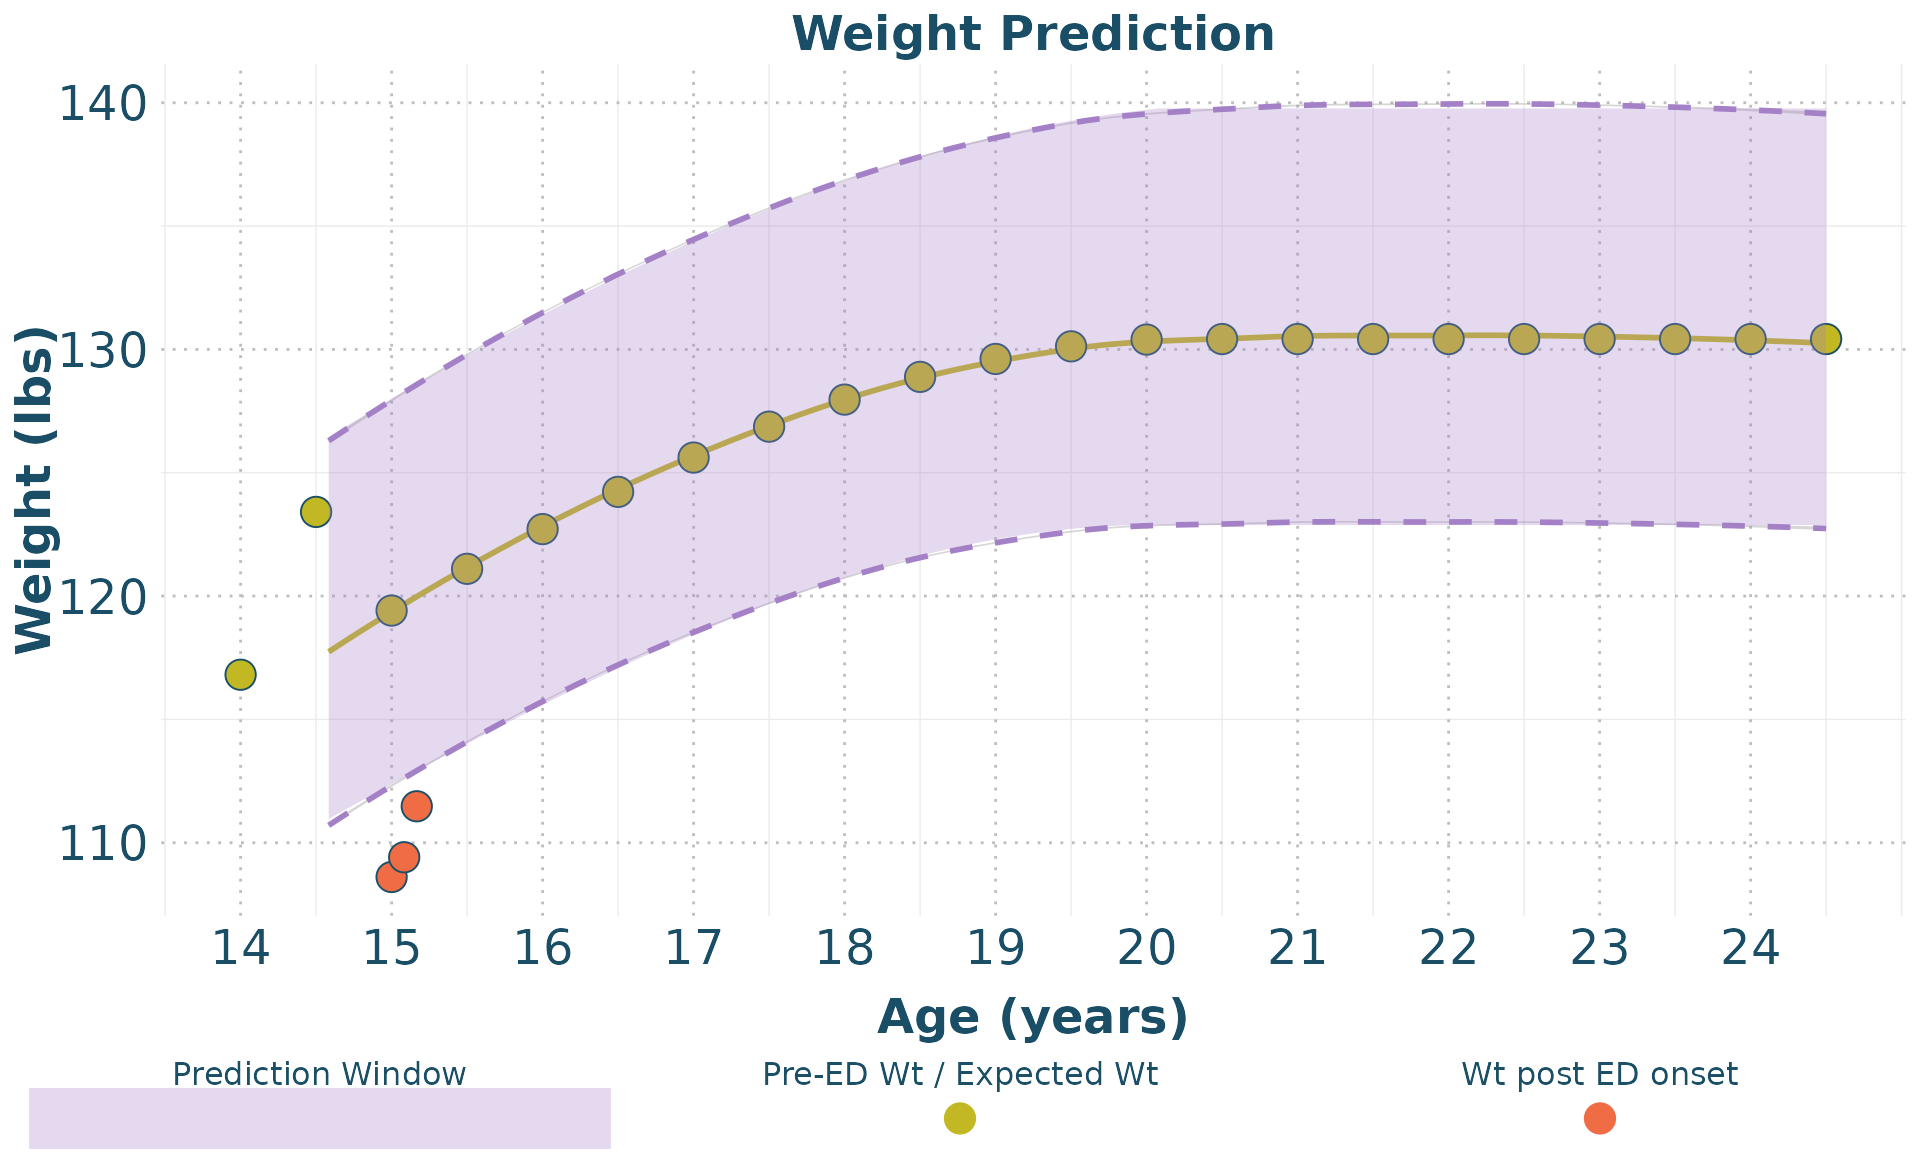
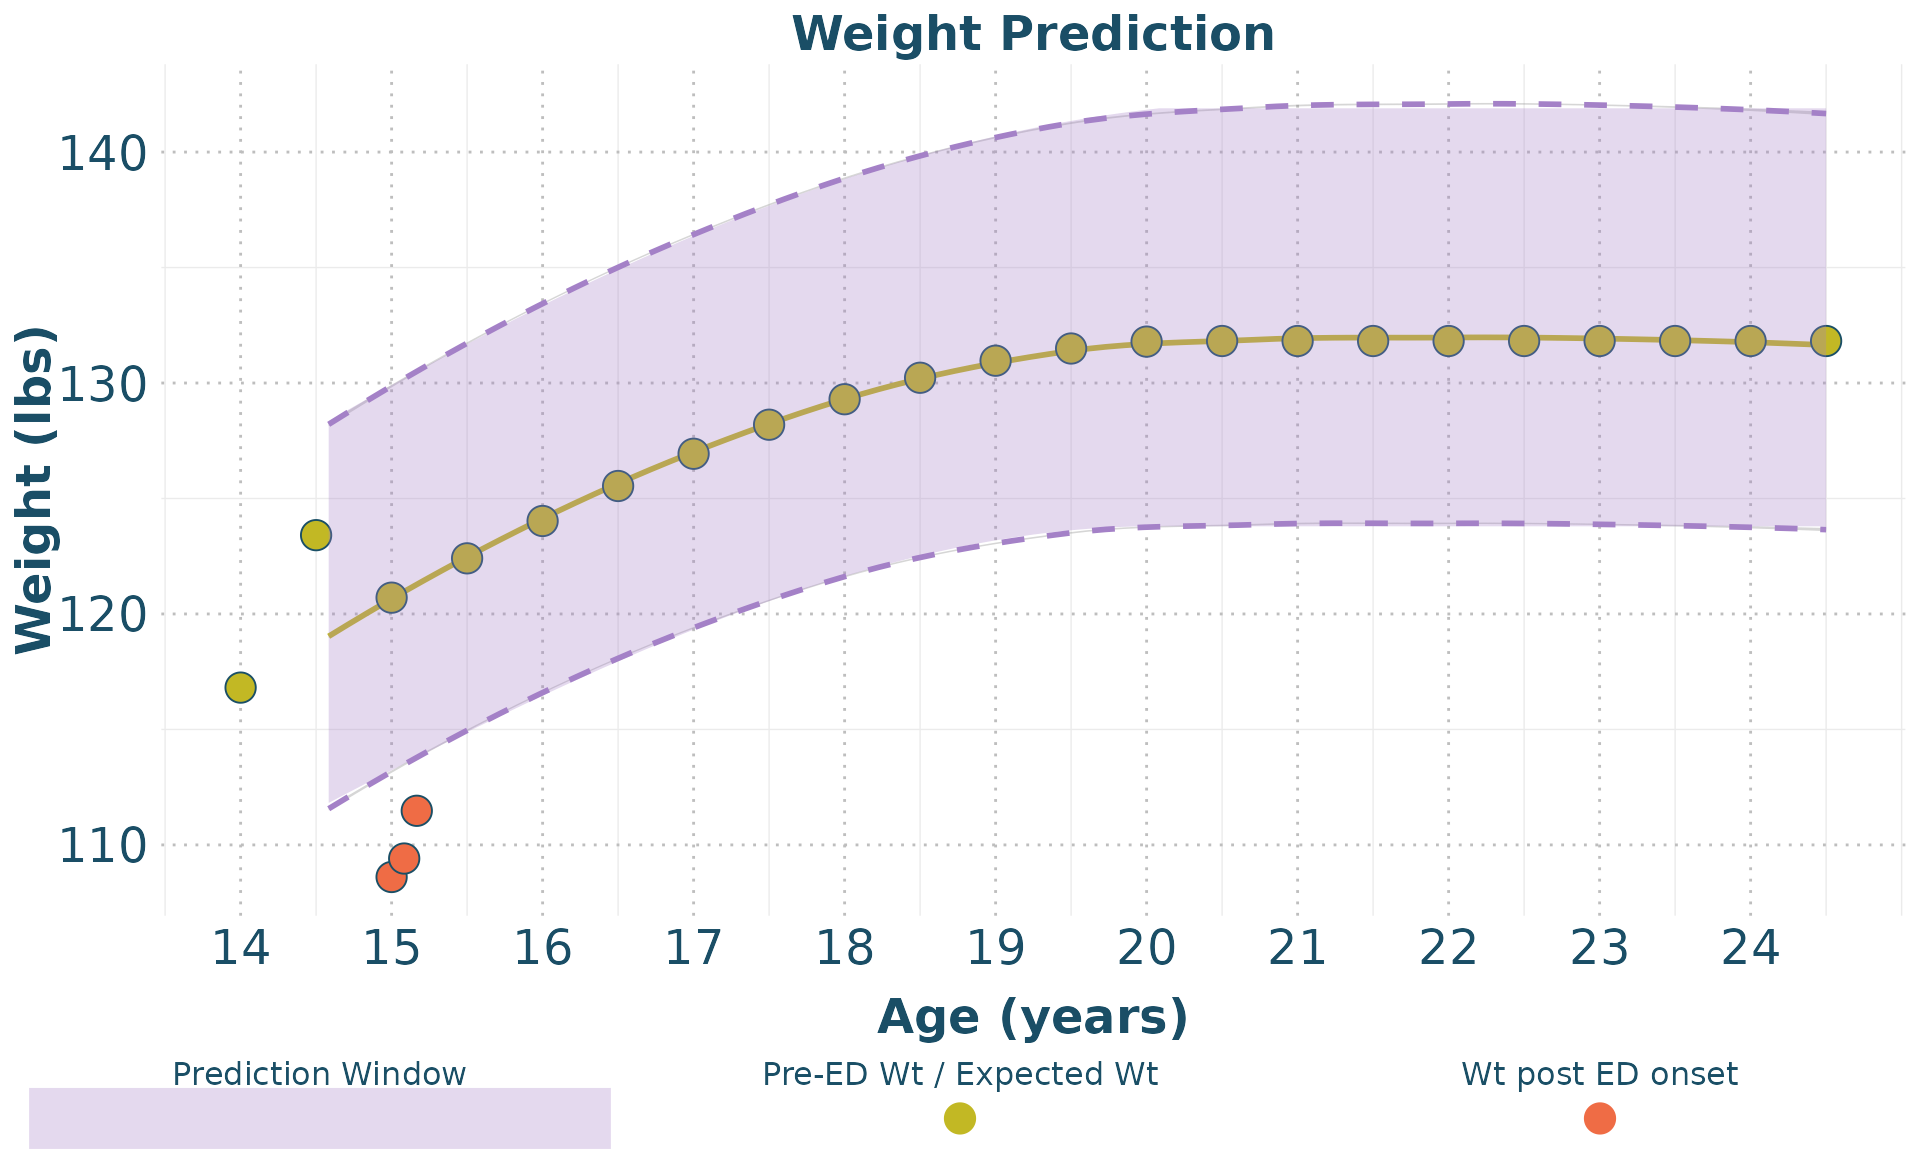
Deploying to gh-pages from @ embark-lab/TeenGrowth@ce2d8bac6f283a9d177db11adf4d03ae1818956c 🚀

diff --git a/articles/Vignette.html b/articles/Vignette.html
@@ -148,123 +148,123 @@ age intervals) for expected BMI and Weight</p>
 <tbody>
 <tr class="odd">
 <td align="right">15.0</td>
-<td align="left">18.2 (17.1, 19.5)</td>
-<td align="left">119.4 (112.4, 128)</td>
-<td align="left">54.2 (51, 58.1)</td>
+<td align="left">18.4 (17.2, 19.7)</td>
+<td align="left">120.7 (113.2, 129.9)</td>
+<td align="left">54.8 (51.4, 58.9)</td>
 </tr>
 <tr class="even">
 <td align="right">15.5</td>
-<td align="left">18.4 (17.3, 19.7)</td>
-<td align="left">121.1 (114, 129.7)</td>
-<td align="left">54.9 (51.7, 58.9)</td>
+<td align="left">18.6 (17.5, 20)</td>
+<td align="left">122.4 (114.9, 131.7)</td>
+<td align="left">55.5 (52.1, 59.7)</td>
 </tr>
 <tr class="odd">
 <td align="right">16.0</td>
-<td align="left">18.7 (17.6, 20)</td>
-<td align="left">122.7 (115.6, 131.4)</td>
-<td align="left">55.7 (52.4, 59.6)</td>
+<td align="left">18.9 (17.7, 20.3)</td>
+<td align="left">124 (116.5, 133.4)</td>
+<td align="left">56.3 (52.8, 60.5)</td>
 </tr>
 <tr class="even">
 <td align="right">16.5</td>
-<td align="left">18.9 (17.8, 20.2)</td>
-<td align="left">124.2 (117.1, 133)</td>
-<td align="left">56.3 (53.1, 60.3)</td>
+<td align="left">19.1 (17.9, 20.5)</td>
+<td align="left">125.5 (117.9, 134.9)</td>
+<td align="left">56.9 (53.5, 61.2)</td>
 </tr>
 <tr class="odd">
 <td align="right">17.0</td>
-<td align="left">19.1 (18, 20.4)</td>
-<td align="left">125.6 (118.4, 134.4)</td>
-<td align="left">57 (53.7, 61)</td>
+<td align="left">19.3 (18.1, 20.7)</td>
+<td align="left">126.9 (119.3, 136.4)</td>
+<td align="left">57.6 (54.1, 61.9)</td>
 </tr>
 <tr class="even">
 <td align="right">17.5</td>
-<td align="left">19.3 (18.2, 20.6)</td>
-<td align="left">126.9 (119.7, 135.7)</td>
-<td align="left">57.5 (54.3, 61.5)</td>
+<td align="left">19.5 (18.3, 20.9)</td>
+<td align="left">128.2 (120.6, 137.7)</td>
+<td align="left">58.1 (54.7, 62.4)</td>
 </tr>
 <tr class="odd">
 <td align="right">18.0</td>
-<td align="left">19.5 (18.4, 20.8)</td>
-<td align="left">128 (120.7, 136.8)</td>
-<td align="left">58 (54.8, 62.1)</td>
+<td align="left">19.7 (18.5, 21.1)</td>
+<td align="left">129.3 (121.6, 138.8)</td>
+<td align="left">58.6 (55.2, 63)</td>
 </tr>
 <tr class="even">
 <td align="right">18.5</td>
-<td align="left">19.6 (18.5, 21)</td>
-<td align="left">128.9 (121.6, 137.8)</td>
-<td align="left">58.5 (55.2, 62.5)</td>
+<td align="left">19.8 (18.6, 21.3)</td>
+<td align="left">130.2 (122.5, 139.8)</td>
+<td align="left">59.1 (55.6, 63.4)</td>
 </tr>
 <tr class="odd">
 <td align="right">19.0</td>
-<td align="left">19.7 (18.6, 21.1)</td>
-<td align="left">129.6 (122.3, 138.6)</td>
-<td align="left">58.8 (55.5, 62.9)</td>
+<td align="left">19.9 (18.7, 21.4)</td>
+<td align="left">131 (123.2, 140.7)</td>
+<td align="left">59.4 (55.9, 63.8)</td>
 </tr>
 <tr class="even">
 <td align="right">19.5</td>
-<td align="left">19.8 (18.7, 21.2)</td>
-<td align="left">130.1 (122.7, 139.3)</td>
-<td align="left">59 (55.7, 63.2)</td>
+<td align="left">20 (18.8, 21.5)</td>
+<td align="left">131.5 (123.6, 141.3)</td>
+<td align="left">59.6 (56.1, 64.1)</td>
 </tr>
 <tr class="odd">
 <td align="right">20.0</td>
-<td align="left">19.8 (18.7, 21.2)</td>
-<td align="left">130.4 (122.9, 139.7)</td>
-<td align="left">59.1 (55.7, 63.4)</td>
+<td align="left">20 (18.8, 21.6)</td>
+<td align="left">131.8 (123.8, 141.8)</td>
+<td align="left">59.8 (56.2, 64.3)</td>
 </tr>
 <tr class="even">
 <td align="right">20.5</td>
-<td align="left">19.8 (18.7, 21.2)</td>
-<td align="left">130.4 (122.9, 139.8)</td>
-<td align="left">59.2 (55.7, 63.4)</td>
+<td align="left">20 (18.8, 21.6)</td>
+<td align="left">131.8 (123.8, 141.9)</td>
+<td align="left">59.8 (56.2, 64.4)</td>
 </tr>
 <tr class="odd">
 <td align="right">21.0</td>
-<td align="left">19.8 (18.7, 21.2)</td>
-<td align="left">130.4 (122.9, 139.8)</td>
-<td align="left">59.2 (55.7, 63.4)</td>
+<td align="left">20 (18.8, 21.6)</td>
+<td align="left">131.8 (123.8, 141.9)</td>
+<td align="left">59.8 (56.2, 64.4)</td>
 </tr>
 <tr class="even">
 <td align="right">21.5</td>
-<td align="left">19.8 (18.7, 21.2)</td>
-<td align="left">130.4 (122.9, 139.8)</td>
-<td align="left">59.2 (55.7, 63.4)</td>
+<td align="left">20 (18.8, 21.6)</td>
+<td align="left">131.8 (123.8, 141.9)</td>
+<td align="left">59.8 (56.2, 64.4)</td>
 </tr>
 <tr class="odd">
 <td align="right">22.0</td>
-<td align="left">19.8 (18.7, 21.2)</td>
-<td align="left">130.4 (122.9, 139.8)</td>
-<td align="left">59.2 (55.7, 63.4)</td>
+<td align="left">20 (18.8, 21.6)</td>
+<td align="left">131.8 (123.8, 141.9)</td>
+<td align="left">59.8 (56.2, 64.4)</td>
 </tr>
 <tr class="even">
 <td align="right">22.5</td>
-<td align="left">19.8 (18.7, 21.2)</td>
-<td align="left">130.4 (122.9, 139.8)</td>
-<td align="left">59.2 (55.7, 63.4)</td>
+<td align="left">20 (18.8, 21.6)</td>
+<td align="left">131.8 (123.8, 141.9)</td>
+<td align="left">59.8 (56.2, 64.4)</td>
 </tr>
 <tr class="odd">
 <td align="right">23.0</td>
-<td align="left">19.8 (18.7, 21.2)</td>
-<td align="left">130.4 (122.9, 139.8)</td>
-<td align="left">59.2 (55.7, 63.4)</td>
+<td align="left">20 (18.8, 21.6)</td>
+<td align="left">131.8 (123.8, 141.9)</td>
+<td align="left">59.8 (56.2, 64.4)</td>
 </tr>
 <tr class="even">
 <td align="right">23.5</td>
-<td align="left">19.8 (18.7, 21.2)</td>
-<td align="left">130.4 (122.9, 139.8)</td>
-<td align="left">59.2 (55.7, 63.4)</td>
+<td align="left">20 (18.8, 21.6)</td>
+<td align="left">131.8 (123.8, 141.9)</td>
+<td align="left">59.8 (56.2, 64.4)</td>
 </tr>
 <tr class="odd">
 <td align="right">24.0</td>
-<td align="left">19.8 (18.7, 21.2)</td>
-<td align="left">130.4 (122.9, 139.8)</td>
-<td align="left">59.2 (55.7, 63.4)</td>
+<td align="left">20 (18.8, 21.6)</td>
+<td align="left">131.8 (123.8, 141.9)</td>
+<td align="left">59.8 (56.2, 64.4)</td>
 </tr>
 <tr class="even">
 <td align="right">24.5</td>
-<td align="left">19.8 (18.7, 21.2)</td>
-<td align="left">130.4 (122.9, 139.8)</td>
-<td align="left">59.2 (55.7, 63.4)</td>
+<td align="left">20 (18.8, 21.6)</td>
+<td align="left">131.8 (123.8, 141.9)</td>
+<td align="left">59.8 (56.2, 64.4)</td>
 </tr>
 </tbody>
 </table>

diff --git a/reference/age_in_months.html b/reference/age_in_months.html
@@ -72,9 +72,9 @@
     <div class="section level2">
     <h2 id="ref-examples">Examples<a class="anchor" aria-label="anchor" href="#ref-examples"></a></h2>
     <div class="sourceCode"><pre class="sourceCode r"><code><span class="r-in"><span><span class="fu">age_in_months</span><span class="op">(</span><span class="fl">365</span><span class="op">)</span>  <span class="co"># Returns 12</span></span></span>
-<span class="r-out co"><span class="r-pr">#&gt;</span> [1] 84</span>
+<span class="r-out co"><span class="r-pr">#&gt;</span> [1] 365</span>
 <span class="r-in"><span><span class="fu">age_in_months</span><span class="op">(</span><span class="fl">730</span><span class="op">)</span>  <span class="co"># Returns 24</span></span></span>
-<span class="r-out co"><span class="r-pr">#&gt;</span> [1] 168</span>
+<span class="r-out co"><span class="r-pr">#&gt;</span> [1] 730</span>
 <span class="r-in"><span></span></span>
 </code></pre></div>
     </div>

diff --git a/reference/age_unit.html b/reference/age_unit.html
@@ -60,7 +60,7 @@
     <div class="section level2">
     <h2 id="ref-examples">Examples<a class="anchor" aria-label="anchor" href="#ref-examples"></a></h2>
     <div class="sourceCode"><pre class="sourceCode r"><code><span class="r-in"><span><span class="fu">age_unit</span><span class="op">(</span><span class="fl">365</span><span class="op">)</span>  <span class="co"># Returns "days"</span></span></span>
-<span class="r-out co"><span class="r-pr">#&gt;</span> [1] "weeks"</span>
+<span class="r-out co"><span class="r-pr">#&gt;</span> [1] "months"</span>
 <span class="r-in"><span><span class="fu">age_unit</span><span class="op">(</span><span class="fl">10</span><span class="op">*</span><span class="fl">365</span><span class="op">)</span>  <span class="co"># Returns "years"</span></span></span>
 <span class="r-out co"><span class="r-pr">#&gt;</span> [1] "days"</span>
 <span class="r-in"><span></span></span>
